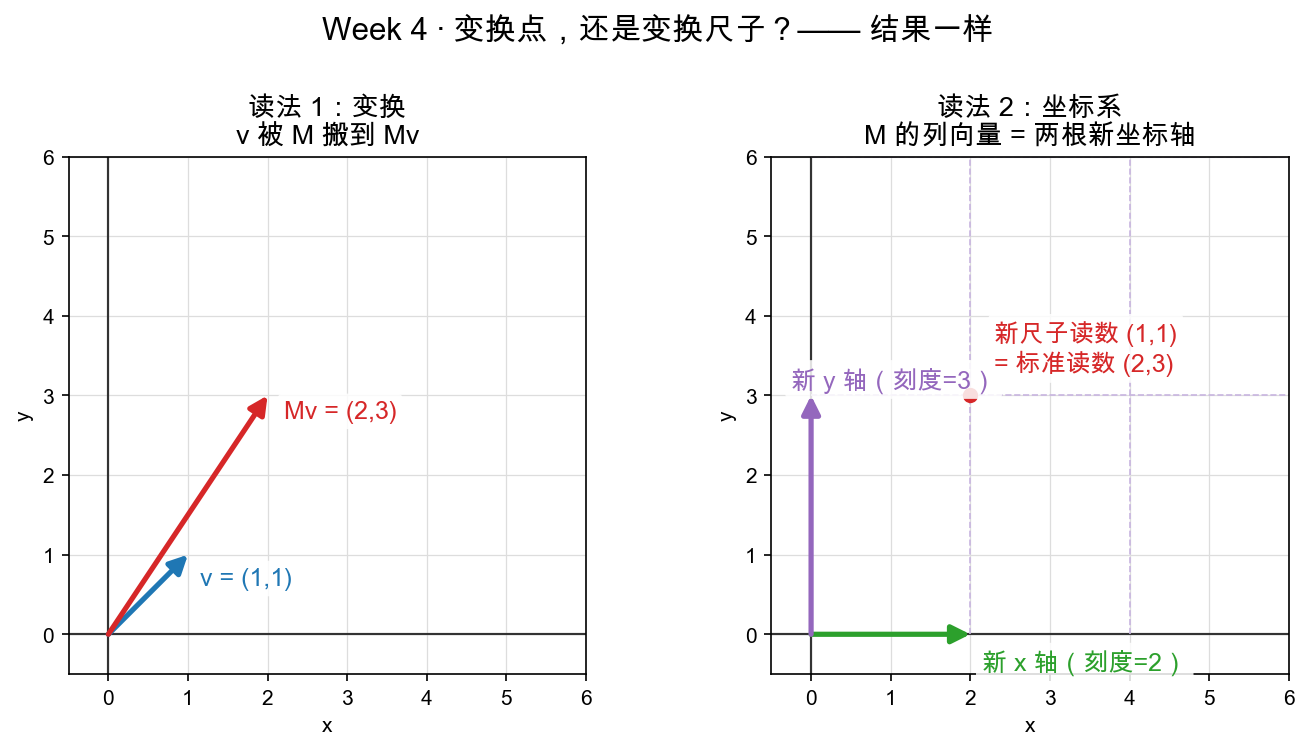
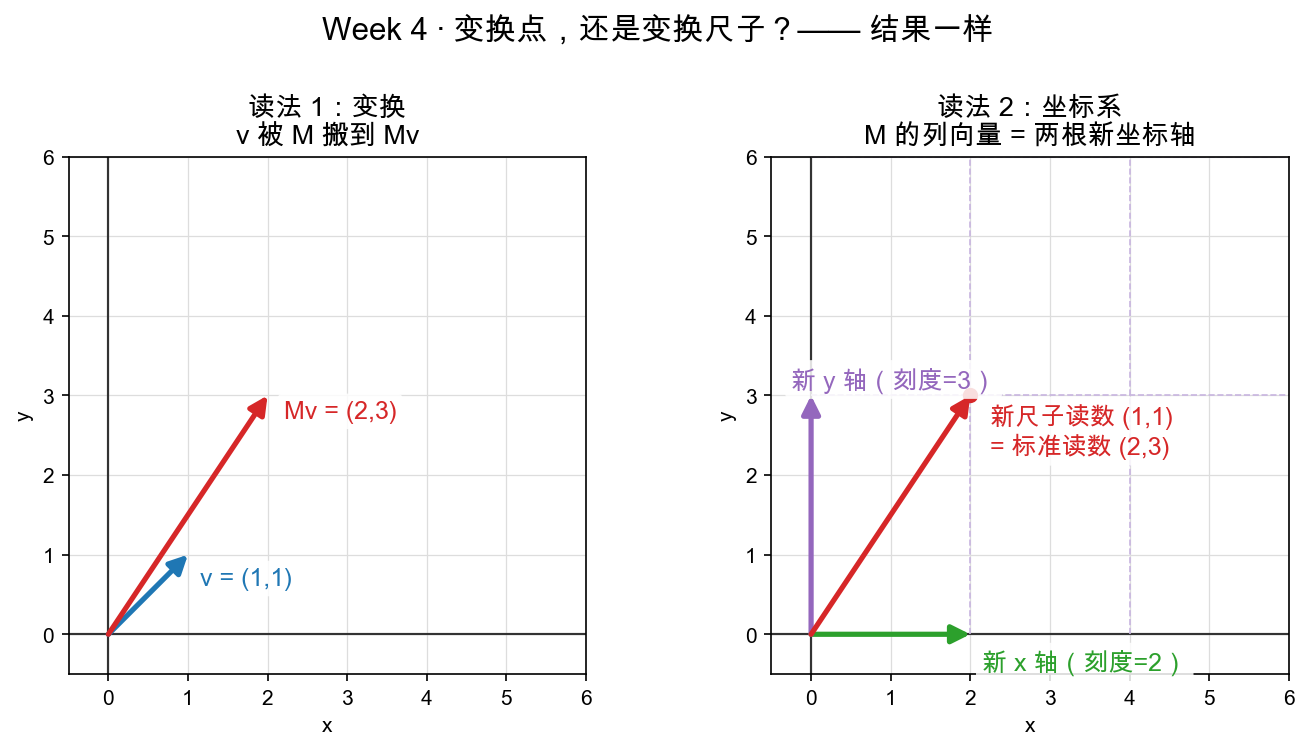
更新 W4D1 图示：调整红点和箭头的表示方式，增强新尺子读数与标准读数的直观展示，更新标题以反映内容变化。

diff --git a/figures/gen_w4d1_two_readings.py b/figures/gen_w4d1_two_readings.py
@@ -31,8 +31,11 @@ vec(ax2, (0, 0), (M[0][1], M[1][1]), color=C_PURPLE,
 for s in (1, 2):
     ax2.plot([s * 2, s * 2], [0, 6], color="#c8b5e0", lw=0.8, ls="--")
     ax2.plot([0, 6], [s * 3, s * 3], color="#c8b5e0", lw=0.8, ls="--")
-point(ax2, (2, 3), color=C_RED, label="新尺子读数 (1,1)\n= 标准读数 (2,3)",
-      label_offset=(0.3, 0.3))
+# 红点 = 新尺子下读数为 (1,1) 的那个点；红箭头 = 它在标准尺子下的读数 (2,3)，
+# 与左图的 Mv 是同一支箭头 —— 直观呈现"结果一样"
+vec(ax2, (0, 0), (2, 3), color=C_RED, label="新尺子读数 (1,1)\n= 标准读数 (2,3)",
+    label_at_tip=True, label_offset=(0.25, -0.45))
+point(ax2, (2, 3), color=C_RED)
 ax2.set_title("读法 2：坐标系\nM 的列向量 = 两根新坐标轴", fontsize=13)
 
 fig.suptitle("Week 4 · 变换点，还是变换尺子？—— 结果一样", fontsize=15, y=0.99)
